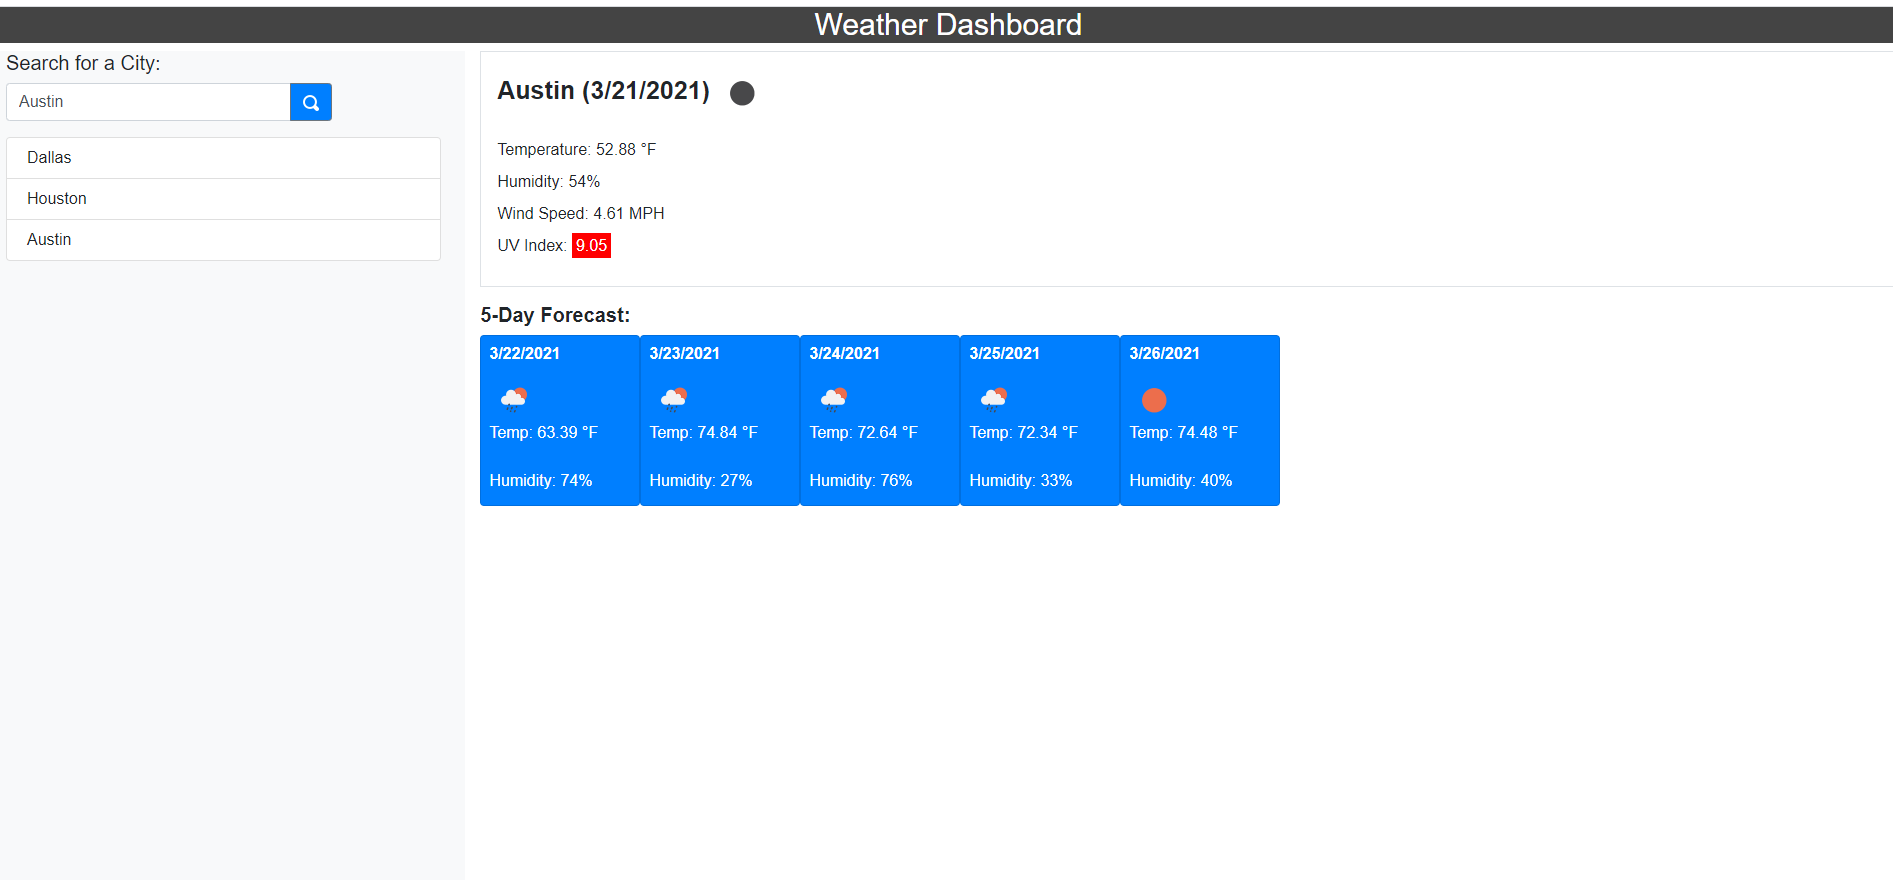
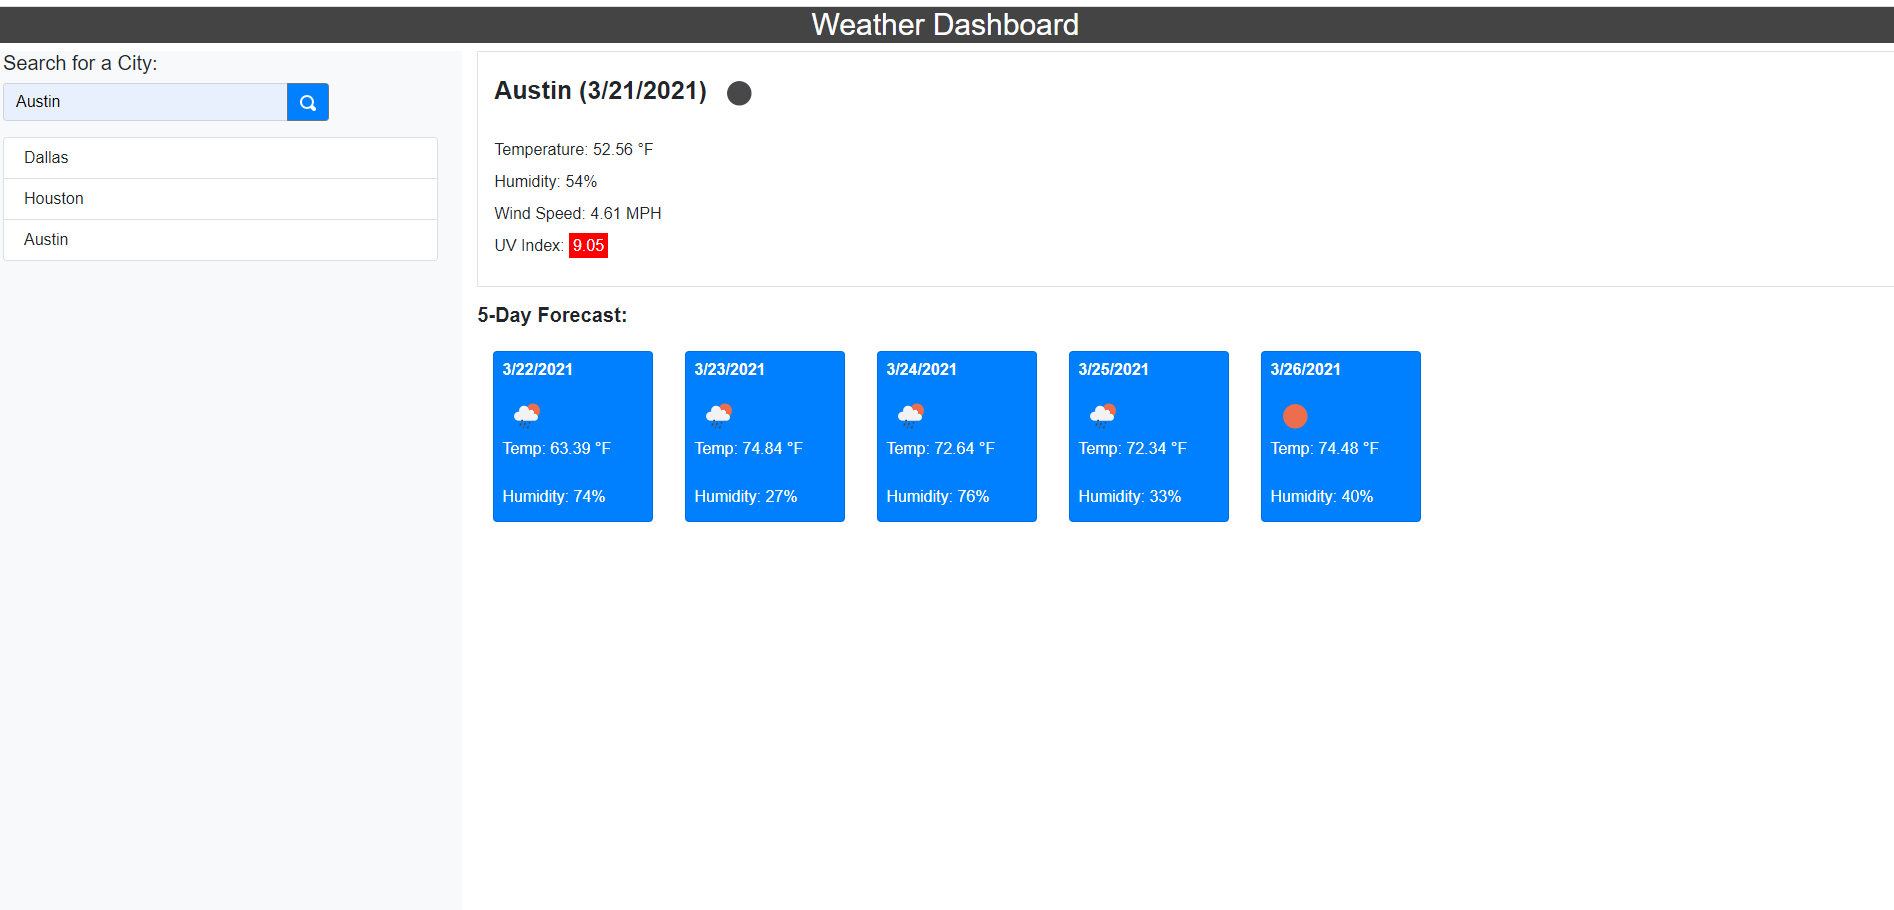
Added margins to cards and updated README image.

diff --git a/assets/js/script.js b/assets/js/script.js
@@ -7,7 +7,6 @@ var searchHistoryEl = $('#searchHist');
 var forecastTitleEl = $('.forecastTitle');
 var searchHistory = [];
 var uvRes;
-var cityNameVal;
 
 // Setting variable to equal the current date
 var today = moment().format("M/D/YYYY");
@@ -26,11 +25,17 @@ if (localStorage.length !== 0) {
   }
 }
 
+searchHistoryEl.click(function(event) {
+  event.preventDefault();
+
+
+})
+
 // Current weather API
 function searchCurrent(event) {
   event.preventDefault();
 
-  cityNameVal = (cityName.val());
+  var cityNameVal = (cityName.val());
 
   // Catch nothing inputted
   if (!cityNameVal) {
@@ -171,7 +176,7 @@ function searchForecast(weathRes) {
       for (var i = 1; i < 6; i++) {
 
         // Card
-        var card = $('<div></div>').addClass('card').addClass('px-2').addClass('pt-2').css('width','10rem').css('float','left');
+        var card = $('<div></div>').addClass('card').addClass('px-2').addClass('pt-2').addClass('m-3').css('width','10rem').css('float','left');
 
         // Body
         var body = $('<div></div>');
